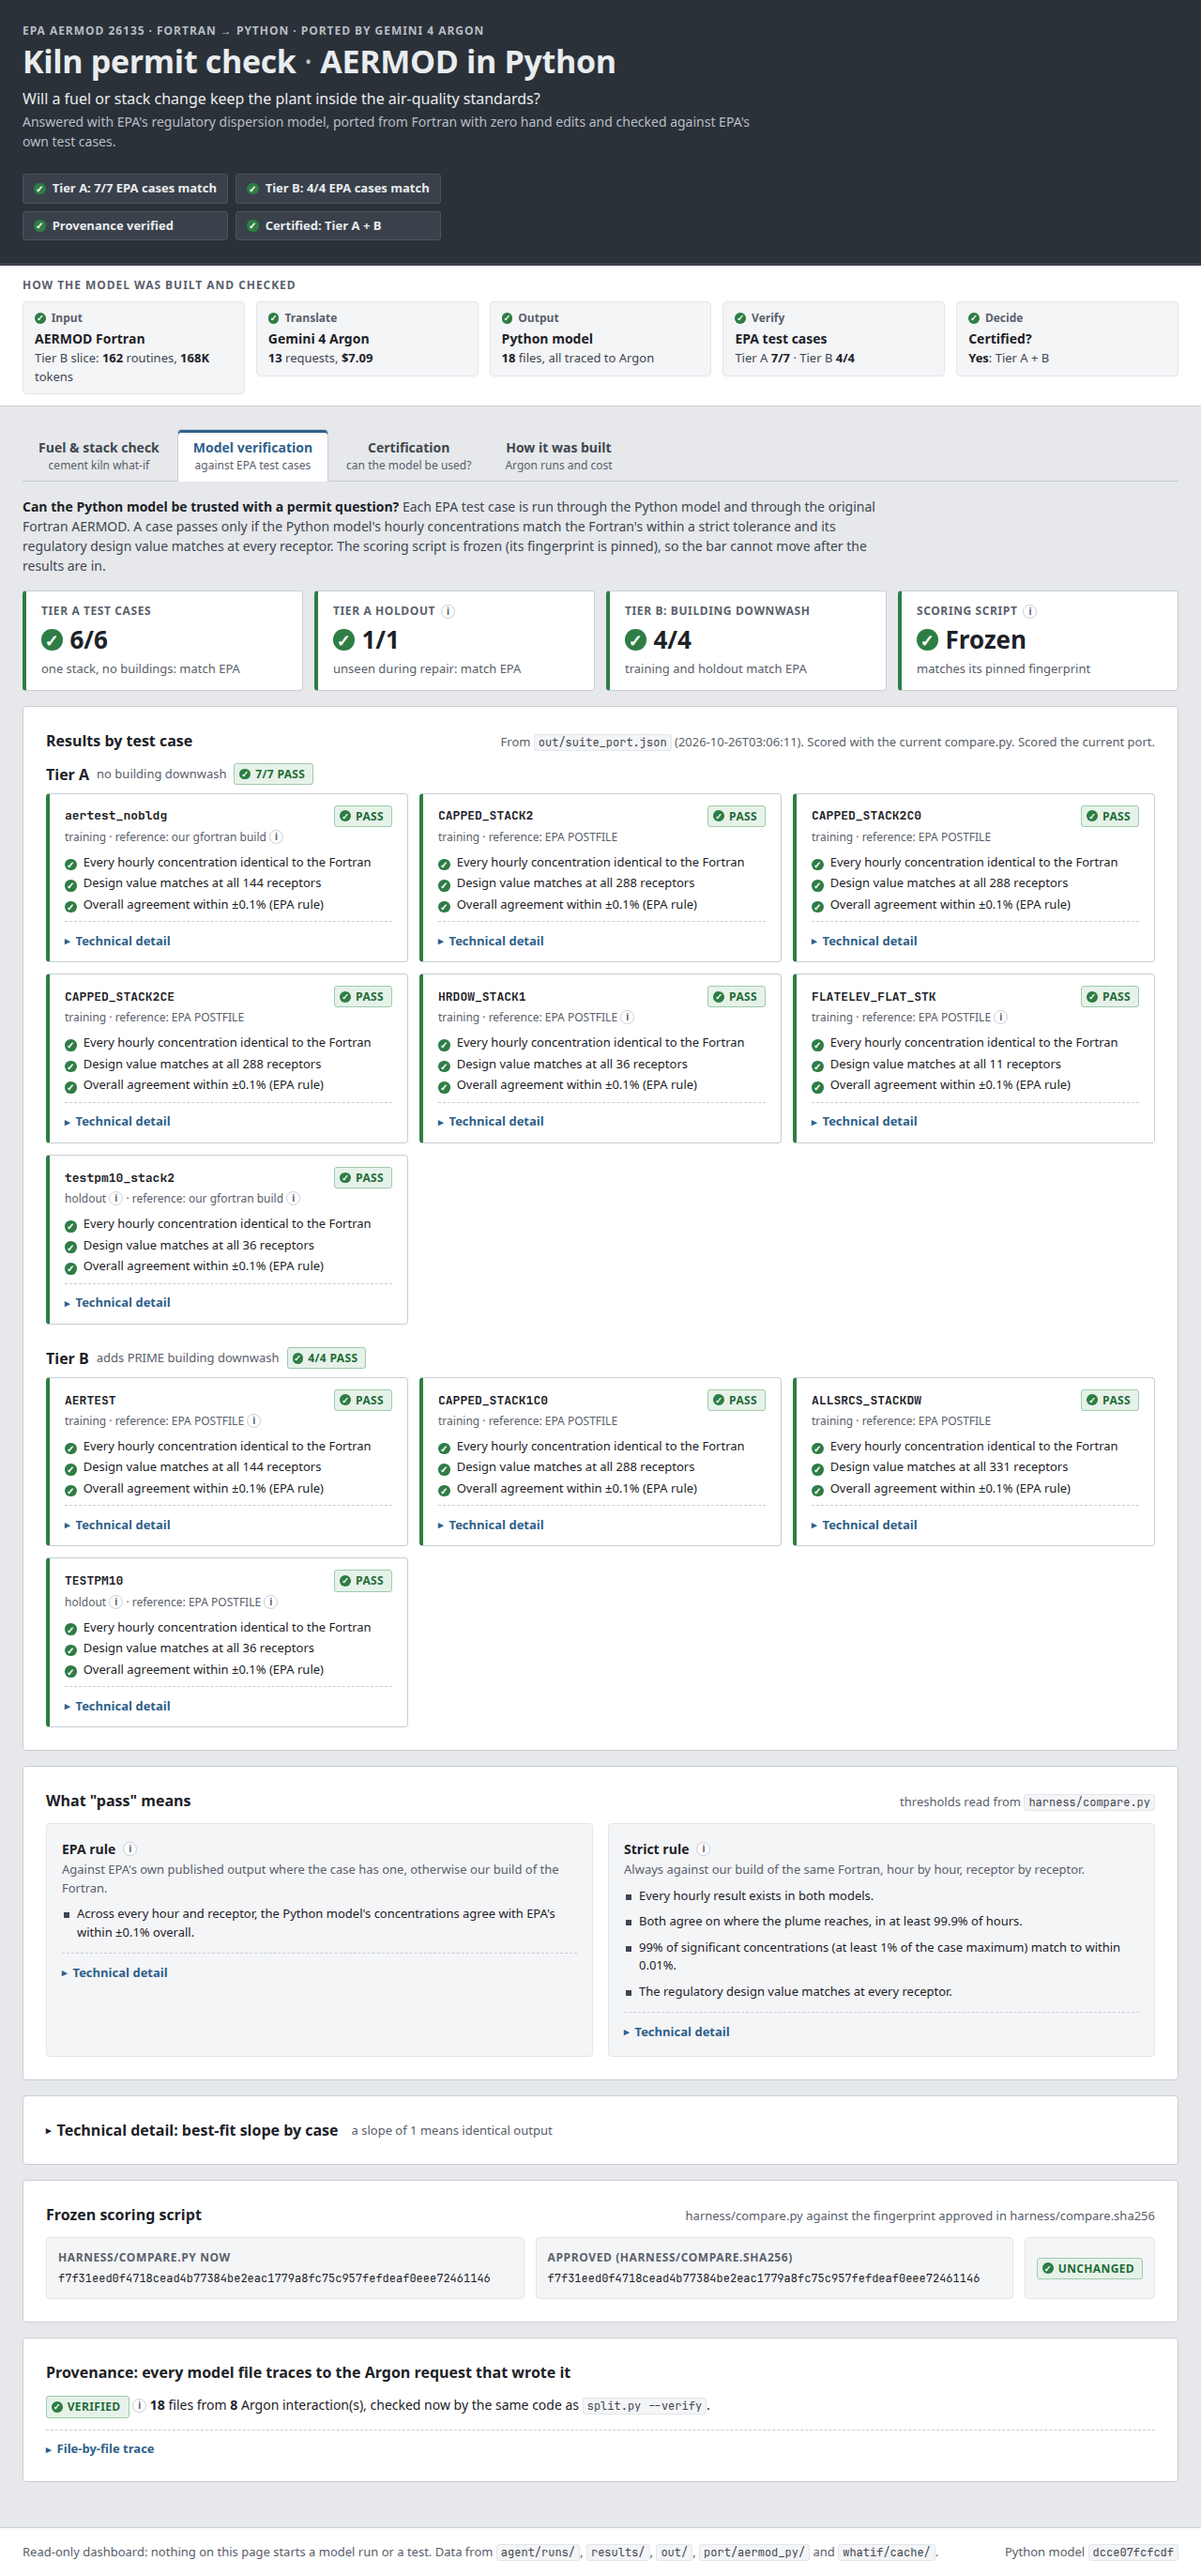
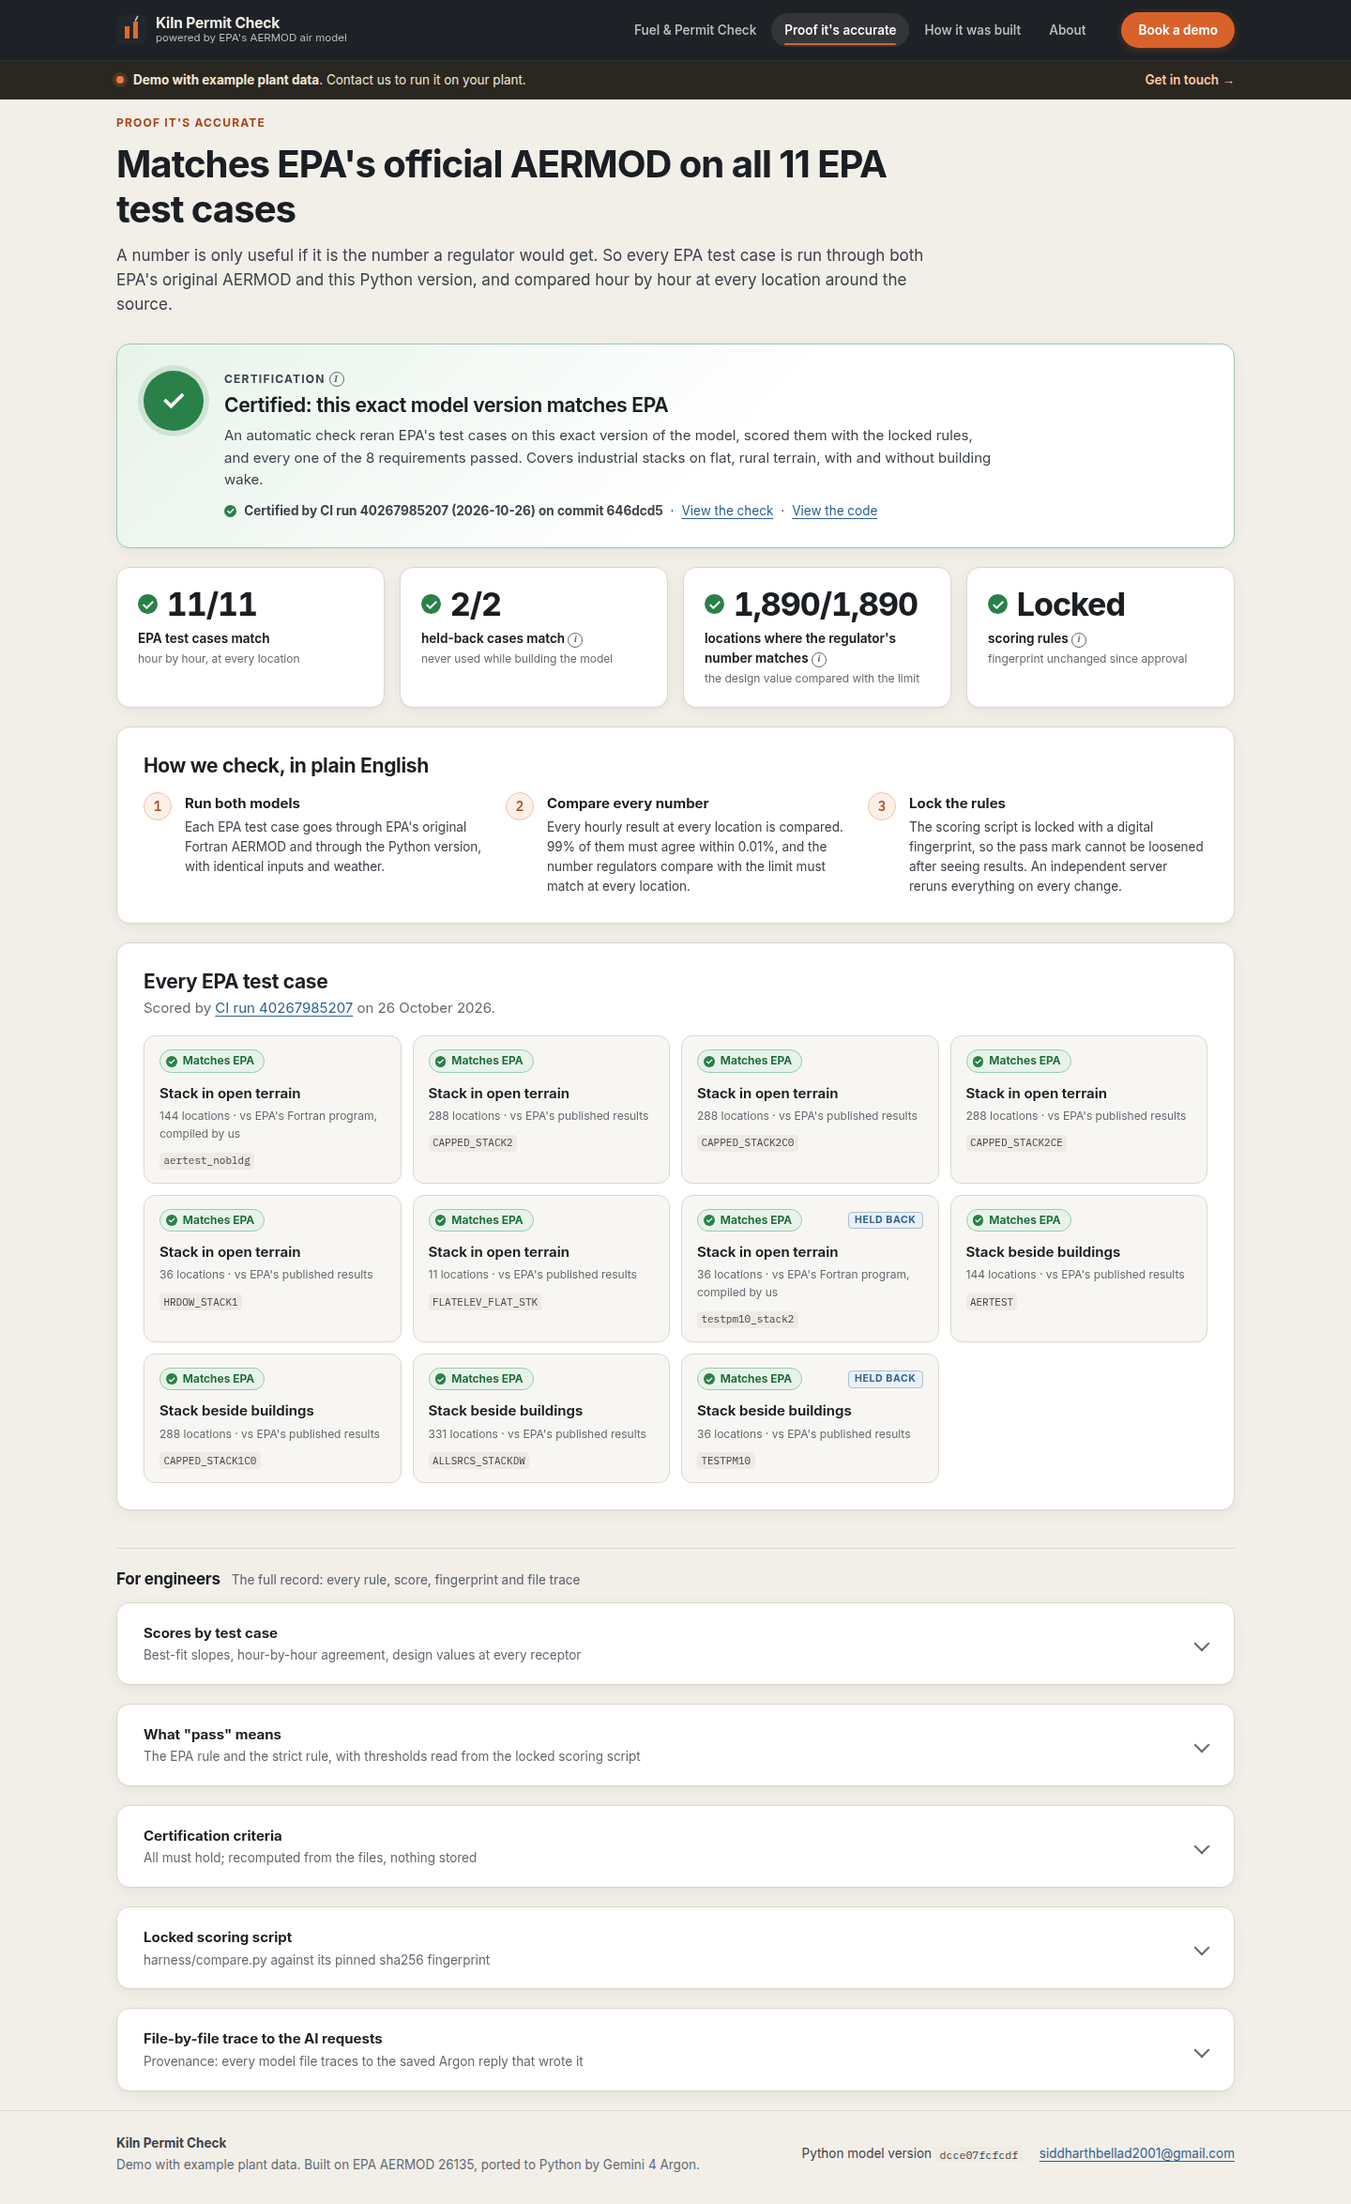
docs: describe the redesigned dashboard and refresh screenshots

Changed region(s): [[0.0, 0.0, 1.0, 0.9949]]

diff --git a/README.md b/README.md
@@ -2,7 +2,7 @@
 
 EPA's regulatory air-dispersion model (AERMOD 26135, Fortran) ported to Python by Gemini 4 Argon with **zero hand edits**, and verified against **EPA's own test cases** by a frozen, strict scoring script.
 
-![Fuel & stack check: baseline and proposed fuel mix as % of the 1-hour SO2 NAAQS, with pass / near-limit / exceeds verdicts](docs/screenshots/whatif.png)
+![Fuel & Permit Check: a 50/50 alternative-fuel mix reaches 63% of the federal 1-hour SO2 limit, within the limit, compared with 53% today](docs/screenshots/whatif.png)
 
 ## Why this matters
 
@@ -105,7 +105,7 @@ flowchart LR
 - **H4H ("high fourth-high").** At each receptor, the 4th-highest daily maximum 1-hour concentration in a year: the design value regulators compare with the 1-hour SO2 standard (`pyaermod.design_values`).
 - **Holdout.** `testpm10_stack2` and `TESTPM10` are never shown to the repair loop, so passing them is evidence the port generalises rather than being tuned. `testpm10_stack2` needs no downwash and tests Tier A; `TESTPM10` has PRIME building data and tests Tier B.
 - **Provenance.** `split.py` writes each file Argon produces into `port/aermod_py` and records its sha256 in `files.json` next to the saved reply. `split.py --verify` re-splits every recorded reply and fails unless each file is byte-identical to one, and that reply's `reply.json` records a completed Argon interaction. `port/aermod_py/README.md` is the only human-owned file there.
-- **Certification** (the Certification tab, recomputed on every load): the approved `compare.py` scored *this exact* port version on this machine, every Tier A training case passes both rules, and provenance is clean. Tier B joins the certified scope automatically once every Tier B case passes in the same scoring of the same port; nothing is hard-coded.
+- **Certification** (the certification panel on the Proof page, recomputed on every load): the approved `compare.py` scored *this exact* port version on this machine, every Tier A training case passes both rules, and provenance is clean. Tier B joins the certified scope automatically once every Tier B case passes in the same scoring of the same port; nothing is hard-coded.
 
 ## Quickstart
 
@@ -122,7 +122,7 @@ make test-fast      # unit tests; tests that need the EPA download skip with a r
 make demo           # dashboard on http://127.0.0.1:8000 (Ctrl-C to stop)
 ```
 
-`make demo` alone is enough for a live demo: it installs if needed, runs the provenance check and serves the dashboard from the committed results. It runs offline and loads nothing from a CDN. It opens on the Fuel & stack check. Until you score the port on your machine, the Certification tab says "not yet certified here".
+`make demo` alone is enough for a live demo: it installs if needed, runs the provenance check and serves the dashboard from the committed results. It runs offline and loads nothing from a CDN. It opens on the Fuel & Permit Check. Until you score the port on your machine, the Proof page says "Not yet verified on this computer".
 
 **Reproduce the scores** (downloads about 10 MB from EPA, builds AERMOD with gfortran, then runs the Python port on every Tier A case; the 5-year holdout takes a few minutes):
 
@@ -130,10 +130,10 @@ make demo           # dashboard on http://127.0.0.1:8000 (Ctrl-C to stop)
 make ref            # fetch EPA source + test cases (checksummed), build ref/aermod and ref/aermod_dump
 make refs           # run every case through ref/aermod: the oracles in out/ref
 make suite-tier-a   # run the port on the Tier A cases + Tier A holdout, score into out/suite_port.json
-make demo           # reload: the Certification tab now certifies the port
+make demo           # reload: the Proof page now certifies the port
 ```
 
-`make suite-port` runs and scores every case, Tier B included, so the Certification tab can certify both tiers; `TESTPM10` (5 years with PRIME) takes about 21 minutes in the port. For the full test suite: `make dumps debug-refs && make test`.
+`make suite-port` runs and scores every case, Tier B included, so the Proof page can certify both tiers; `TESTPM10` (5 years with PRIME) takes about 21 minutes in the port. For the full test suite: `make dumps debug-refs && make test`.
 
 **Re-run Argon** (needs `GEMINI_API_KEY`; costs real money, see "Cost controls"):
 
@@ -148,27 +148,30 @@ make readme                                  # refresh the results block above
 
 `make demo` (or `python server.py --root OTHER_CHECKOUT` to read another checkout's runs and results). Read-only: every number is computed from files on disk at page load, and nothing on the page starts a model run.
 
-| Tab | Shows | Read from |
-|---|---|---|
-| Fuel & stack check | The cement-kiln what-if below: a verdict card per scenario (% of the NAAQS, pass / near limit / exceeds), gauges against the standard line, the plume footprint | `whatif/kiln.toml`, `whatif/cache/` |
-| Model verification | Per EPA test case, in plain terms (hourly concentrations within the strict tolerance, design value matching at every receptor, "identical" only when the largest difference is exactly 0), with slope, p99 and H4H one click down under "Technical detail"; the frozen digest; every file's provenance | `out/suite_port.json`, else `results/tier_*.md`; `harness/compare.py`; `split.trace` |
-| Certification | Certified or not, for which tiers, with each criterion and why | all of the above, recomputed |
-| How it was built | Argon requests, tokens and cost per run; Fortran in scope; files each reply wrote; repair decisions; git history of the port | `agent/runs/`, `results/tier_*.md`, `context/tokens.json` |
+It is written for a cement plant manager or environmental manager first: plain-English questions and answers up front, and every rigorous detail (scores, hashes, CI run, Argon cost) one click down under "For engineers".
 
-The look follows ISA-101 high-performance HMI practice: neutral greys, one steel blue for controls, and colour only for status. Green means within the limit or pass, amber means at or above 80% of the standard (a screening margin chosen for this dashboard, not a regulatory threshold), and red means exceeds or fails. Every status colour comes with an icon and a text label, so nothing depends on colour alone. Emission rates show g/s and lb/hr.
+| Section | Shows | Read from |
+|---|---|---|
+| Fuel & Permit Check | The plant question ("Can we burn more alternative fuel and stay within our air-quality limits?"), a big answer (Within limit / Close to limit / Over limit) with the % of the federal limit and one sentence of explanation, today versus the chosen fuel mix, why to trust the number, the plume footprint; stack, emission and site inputs under "Fine-tune the stack and site" | `whatif/kiln.toml`, `whatif/cache/` |
+| Proof it's accurate | Certified or not (computed, never stored), how many EPA test cases match, how the check works in plain English, every case in plain terms; under "For engineers": slopes, p99 and H4H per case, the rules, every certification criterion, the frozen digest, every file's provenance | `out/suite_port.json`, else `results/tier_*.md`; `harness/compare.py`; `split.trace` |
+| How it was built | Lines translated, AI requests and cost, the four steps from Fortran to a verified model; under "For engineers": tokens and cost per run, files each reply wrote, repair decisions, git history of the port | `agent/runs/`, `results/tier_*.md`, `context/tokens.json` |
+| About | Who it is for, what the demo is and is not, a plain-English glossary, contact | `whatif/kiln.toml` |
+
+The look is a warm limestone page under a graphite control-room header, with Inter and IBM Plex Mono self-hosted in `ui/fonts/` (SIL OFL). One kiln-orange accent marks calls to action; steel blue marks things you can click. Status colours follow ISA-101 high-performance HMI practice and are used only for status: green means within the limit or pass, amber means at or above 80% of the limit (a screening margin chosen for this dashboard, not a regulatory threshold), and red means over the limit or fails. Every status colour comes with an icon and a text label, so nothing depends on colour alone. Jargon (SO2, NOx, stack, building wake, background, NAAQS) carries a hover or tap glossary.
 
 Tier B shows "in progress" until every Tier B case passes in `results/tier_B.md` or `out/suite_port.json`; it is never shown as a result before then.
 
-| Model verification | Certification | How it was built |
+| Proof it's accurate | How it was built | About |
 |---|---|---|
-| ![Model verification tab](docs/screenshots/proof.png) | ![Certification tab](docs/screenshots/decision.png) | ![How it was built tab](docs/screenshots/port.png) |
+| ![Proof it's accurate](docs/screenshots/proof.png) | ![How it was built](docs/screenshots/port.png) | ![About](docs/screenshots/about.png) |
 
 ## Deploy to Vercel
 
 `site/` is a committed, static, read-only copy of the dashboard. Import this GitHub repository in Vercel and deploy with no settings changed: `vercel.json` selects no framework, skips install and build, and serves `site/`; `.vercelignore` uploads only `site/` and `vercel.json`. No Python runs on Vercel, no API key is involved, and the site never calls Gemini or Argon. Preview it locally with `python3 -m http.server -d site`.
 
 - **How it is produced:** `make export-static` (`tools/export_static.py`) calls `server.py`'s API in-process and writes every response the page fetches as JSON under `site/data/`, next to a copy of `ui/`. With `data/static.js` present, `ui/app.js` reads those files instead of `/api/`; under `server.py` nothing changes. CI fails if `site/` is stale, so rerun the export and commit it after changing `ui/`, `results/`, `agent/runs/`, `whatif/` or the port.
-- **What is disabled:** nothing is computed when the site is served. The Fuel & stack check offers each pollutant's precomputed fuel-mix presets; the stack, emission, background and site inputs are disabled with a "read-only demo: run locally to recompute" note. Nothing can be rescored.
+- **What is disabled:** nothing is computed when the site is served. The Fuel & Permit Check offers each pollutant's precomputed fuel-mix presets; the stack, emission, background and site inputs are disabled with a note that the online demo shows presets only. A banner reads "Demo with example plant data. Contact us to run it on your plant." Nothing can be rescored.
+- **Security:** `vercel.json` sends a Content-Security-Policy that allows only the site's own scripts, styles, fonts and data (inline style attributes aside), `frame-ancestors 'none'`, `X-Content-Type-Options: nosniff`, a `Referrer-Policy` and a `Permissions-Policy` that turns off camera, microphone, geolocation and similar APIs. The page loads nothing from a third party: no CDN, web fonts, analytics or trackers. "Book a demo" is a plain `mailto:` link.
 - **Certification:** scores come from `results/ci_port_suite.json`, the `out/suite_port.json` uploaded by the `port-suite` job of the latest green `main` CI run (refresh with `python tools/export_static.py --fetch-ci`, which needs `gh`). The export judges it with the same `certify()` as the live dashboard, so the site says "Certified by CI run <id> (<date>) on commit <sha>" only if that run scored exactly the committed `port/aermod_py`. Otherwise it says "Not certified" and names both port digests.
 
 ## Kiln what-if demo
@@ -183,7 +186,7 @@ A cement plant wants to burn part of its kiln fuel as alternative fuels (tyres, 
 ## Limitations and scope
 
 - **Tier A** (certified): POINT sources, FLAT terrain, rural, concentration, 1-hour averages, no building downwash.
-- **Tier B**: adds PRIME building downwash. Every Tier B case passes in `results/tier_B.md`; the Certification tab certifies it once the same port version is scored on your machine.
+- **Tier B**: adds PRIME building downwash. Every Tier B case passes in `results/tier_B.md`; the Proof page certifies it once the same port version is scored on your machine.
 - **Not ported, by design:** input parsing (SETUP) and output writing. The human-written `harness/glue.py` parses the deck with pyaermod and builds every SETUP value the physics reads; it is checked bit for bit against `SETUP.DMP` from an instrumented AERMOD build and round-trips AERMOD's POSTFILE byte for byte.
 - **Reference:** EPA's kit states no numeric slope threshold; 0.001 is pyaermod's default. Our gfortran build differs slightly from EPA's shipped files on two cases, which is why the strict rule always compares against our own build.
 - **Argon calls** ran on another machine; this repository holds the recorded replies, which is what `split.py --verify` checks. Token counts for the Fortran slice use a proxy tokenizer (tiktoken o200k), not Gemini's.
